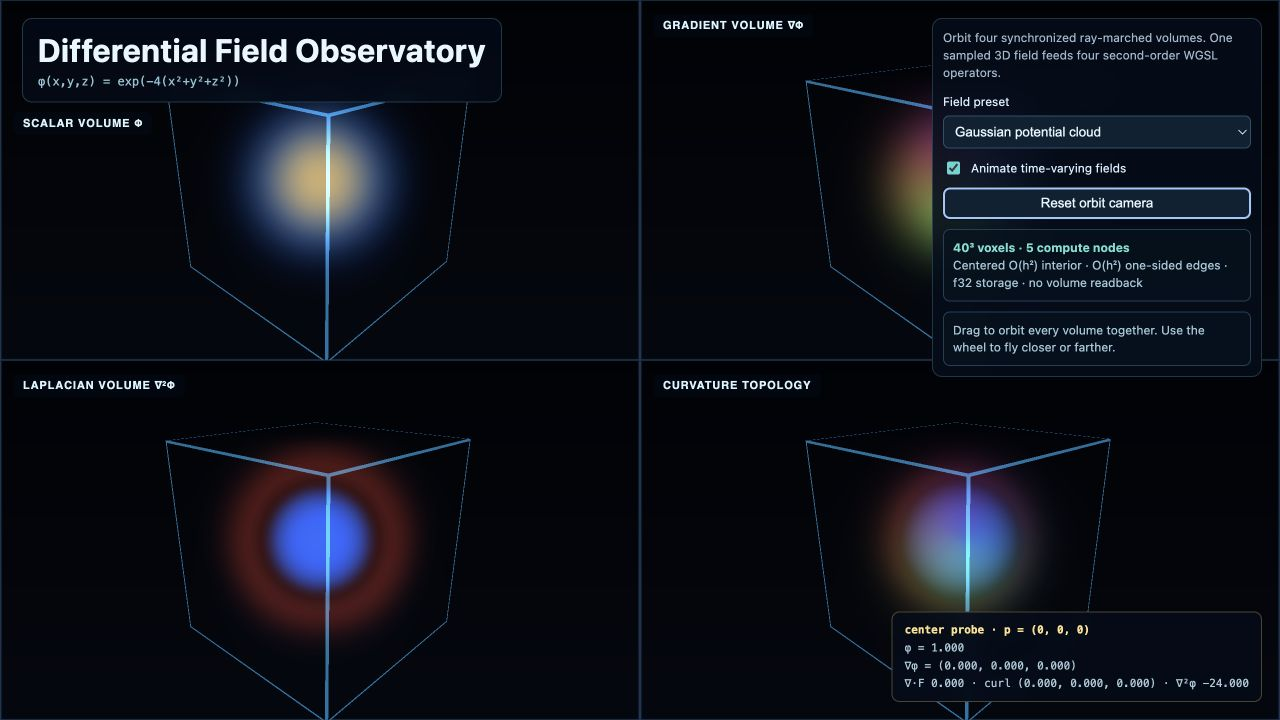
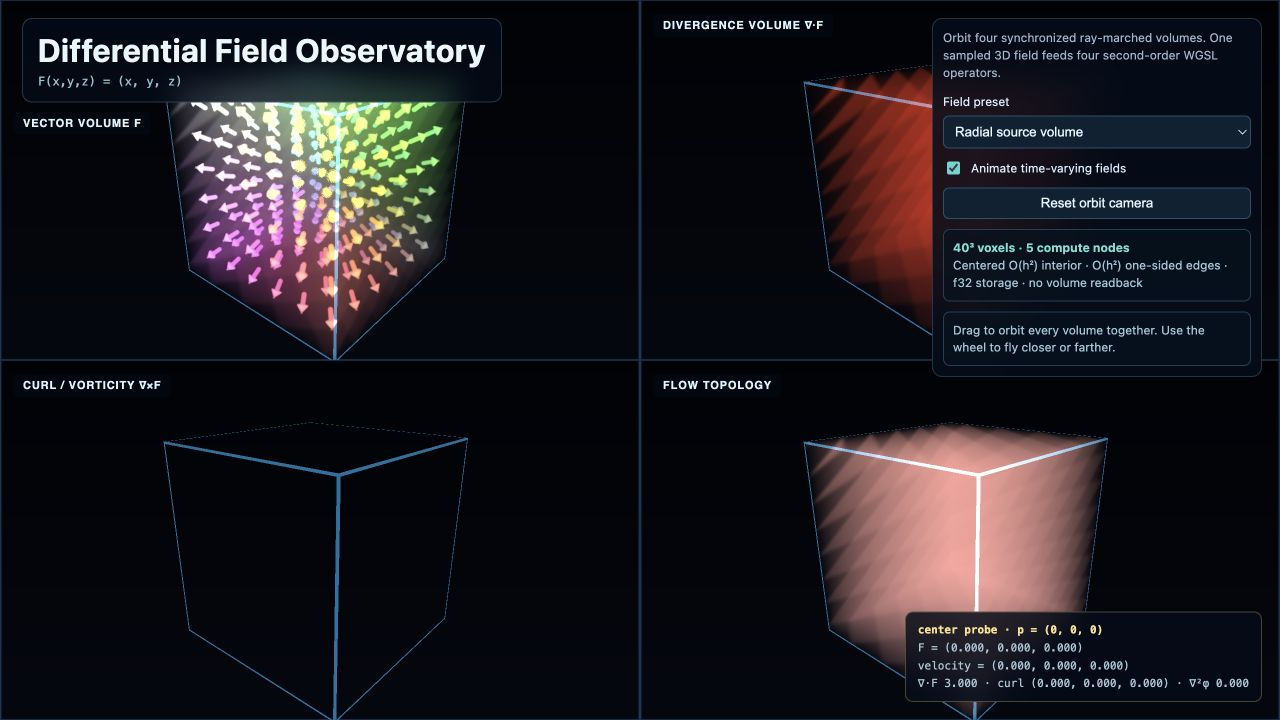
feat(examples): add volumetric vector glyphs

diff --git a/examples/showcase/vector-field-lab/vector-field-shaders.ts b/examples/showcase/vector-field-lab/vector-field-shaders.ts
@@ -90,6 +90,40 @@ fn directionColor(vector: vec3f) -> vec3f {
   return 0.18 + 0.82 * (direction * 0.5 + 0.5);
 }
 
+fn segmentDistance(point: vec3f, start: vec3f, end: vec3f) -> f32 {
+  let segment = end - start;
+  let fraction = clamp(dot(point - start, segment) / max(dot(segment, segment), 0.000001), 0.0, 1.0);
+  return length(point - (start + segment * fraction));
+}
+
+// A small solid 3D arrow evaluated as a shaft plus tapered cone. Glyph centers are
+// deliberately sparse so the field remains legible through the translucent volume.
+fn arrowGlyph(position: vec3f, bufferId: u32) -> VolumeSample {
+  let glyphCoordinate = clamp(round((position + 0.8) / 0.32), vec3f(0.0), vec3f(5.0));
+  let center = glyphCoordinate * 0.32 - 0.8;
+  let vector = sampleVectorBuffer(center, bufferId);
+  let magnitude = length(vector);
+  if (magnitude < 0.001) { return VolumeSample(vec3f(0.0), 0.0); }
+
+  let direction = vector / magnitude;
+  let arrowLength = 0.115 + 0.07 * (1.0 - exp(-magnitude * 0.7));
+  let tail = center - direction * arrowLength * 0.48;
+  let shoulder = center + direction * arrowLength * 0.18;
+  let tip = center + direction * arrowLength * 0.52;
+  let shaftDistance = segmentDistance(position, tail, shoulder) - 0.012;
+  let headVector = position - shoulder;
+  let headLength = max(length(tip - shoulder), 0.000001);
+  let headPosition = dot(headVector, direction);
+  let headRadius = 0.038 * (1.0 - clamp(headPosition / headLength, 0.0, 1.0));
+  let radialDistance = length(headVector - direction * headPosition);
+  let headDistance = max(radialDistance - headRadius, max(-headPosition, headPosition - headLength));
+  let distance = min(shaftDistance, headDistance);
+  let coverage = 1.0 - smoothstep(0.0, 0.018, distance);
+  let headHighlight = 1.0 - smoothstep(-0.006, 0.012, headDistance);
+  let color = mix(directionColor(vector) * 1.15, vec3f(1.0, 0.92, 0.62), headHighlight * 0.45);
+  return VolumeSample(color, coverage * 26.0);
+}
+
 fn fieldSample(position: vec3f, panel: u32, scalarMode: bool) -> VolumeSample {
   let grid = pow(max(0.0, 0.5 + 0.5 * sin((position.x + position.y * 1.3 + position.z * 0.7) * 18.0 - uniforms.cameraAndTime.w * 1.5)), 10.0);
   if (scalarMode) {
@@ -145,7 +179,16 @@ fn hash(point: vec2f) -> f32 { return fract(sin(dot(point, vec2f(12.9898, 78.233
     var distance = start + hash(input.position.xy) * stepLength;
     for (var step = 0u; step < 72u; step++) {
       let position = rayOrigin + rayDirection * distance;
-      let sample = fieldSample(position, panel, uniforms.viewport.w > 0.5);
+      let scalarMode = uniforms.viewport.w > 0.5;
+      var sample = fieldSample(position, panel, scalarMode);
+      var glyph = VolumeSample(vec3f(0.0), 0.0);
+      if (scalarMode && panel == 1u) { glyph = arrowGlyph(position, 1u); }
+      if (!scalarMode && panel == 0u) { glyph = arrowGlyph(position, 0u); }
+      if (!scalarMode && panel == 2u) { glyph = arrowGlyph(position, 2u); }
+      if (glyph.density > 0.0) {
+        sample.color = mix(sample.color, glyph.color, glyph.density / (sample.density + glyph.density));
+        sample.density += glyph.density;
+      }
       let alpha = 1.0 - exp(-sample.density * stepLength * 2.2);
       color += transmittance * alpha * sample.color * 1.35;
       transmittance *= 1.0 - alpha;

diff --git a/examples/showcase/vector-field-lab/README.md b/examples/showcase/vector-field-lab/README.md
@@ -2,6 +2,8 @@
 
 A WebGPU showcase for navigating a sampled three-dimensional field and its differential operators.
 Four synchronized ray-marched volumes consume the same GPU-resident buffers and orbit camera.
+Vector-valued views add small solid 3D arrow glyphs on a sparse 6³ lattice. Their shafts and tapered
+heads are evaluated volumetrically, preserving orientation, occlusion, and perspective while orbiting.
 
 ## GPU command graph
 
